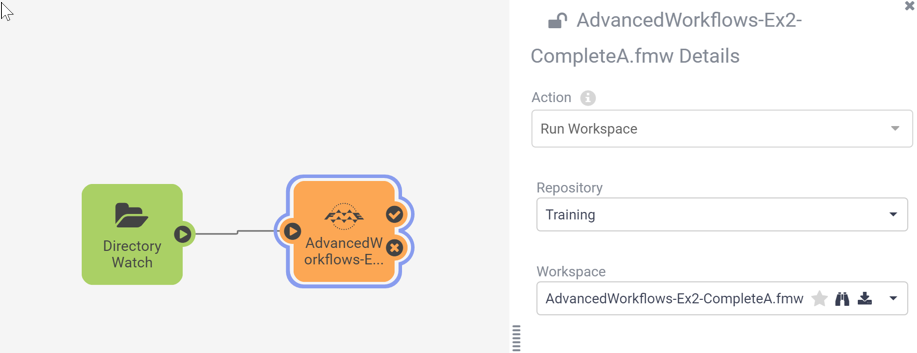
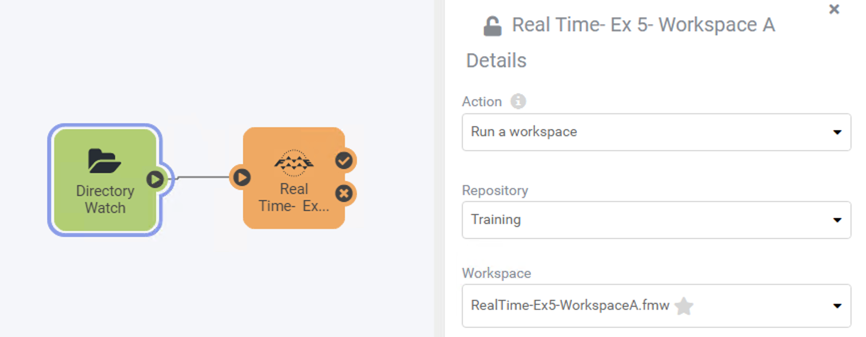
Updated exercises 4 and 5 for chapter 4.

diff --git a/ServerAuthoring4RealTime/Exercise4.md b/ServerAuthoring4RealTime/Exercise4.md
@@ -26,17 +26,18 @@
 
 <tr>
 <td style="border: 1px solid darkorange; font-weight: bold">Demonstrates</td>
-<td style="border: 1px solid darkorange">Email Actions</td>
+<td style="border: 1px solid darkorange">Automations Writer and Email Actions</td>
 </tr>
 
 <tr>
-<td style="border: 1px solid darkorange; font-weight: bold">Start Workspace</td>
-<td style="border: 1px solid darkorange">N/A</td>
+<td style="border: 1px solid darkorange; font-weight: bold">Start Server Project</td>
+<td style="border: 1px solid darkorange">C:\FMEData2020\Projects\ServerAuthoring\RealTime-Ex4-Begin.fsproject
+</td>
 </tr>
 
 <tr>
-<td style="border: 1px solid darkorange; font-weight: bold">End Workspace</td>
-<td style="border: 1px solid darkorange">N/A</td>
+<td style="border: 1px solid darkorange; font-weight: bold">End Server Project</td>
+<td style="border: 1px solid darkorange">C:\FMEData2020\Projects\ServerAuthoring\RealTime-Ex4-Complete.fsproject</td>
 </tr>
 
 </table>
@@ -45,7 +46,7 @@
 
 After configuring an Automation in FME Server to process building footprint updates with both the Directory Watch and Email Triggers, your supervisor is wondering if they can receive an email whenever the corporate database is updated.
 
-Using an external email server, you think that it is possible to configure the existing Automation in FME Server to satisfy this requirement.
+Using an external email server, you think that it is possible to configure the existing Automation in FME Server to satisfy this requirement. You also realize that you can use an Automations Writer in the workspace to include additional information about the updates made to the corporate database in the email that is sent.
 
 ---
 
@@ -70,13 +71,44 @@ This exercise continues where <a href="https://s3.amazonaws.com/gitbook/Server-A
 </table>
 
 ---
+<br>**1) Open Workspace in Workbench**
+<br>If you don't already have the workspace from Exercise 2 open in Workbench, download it from FME Server using the File > Download from FME Server option in Workbench. From the download from FME Server dialog, choose the Training Repository and select RealTime-Ex2-Complete.fmw to open it in Workbench for editing.
 
-Will modify the workspace to add an Automations Writer so we can pass some specific information from inside the workspace to the Email Trigger. The rest of the exercise should follow as normal.
+<br>**2) Create Summary Information for Job**
+<br>Now, you are going to update this workspace to generate a summary of the number of records that were updated from the incoming Shapefile. Add an Aggregator transformer and connect it in parallel to the Shapefile Reader like this:
 
-<br>**1) Add External Action**
-<br>Open the FME Server web interface and navigate to the Automations:Manage page. Click the Incoming Building Footprints and stop the Automation to allow for editing. The final step in the Automation is to add an email service External Action through which a response will be sent.
+![](./Images/Img4.439.Ex4.Aggregator.png)
 
-Select the plus icon in the bottom left and this time drag an External Action (blue) to the canvas. Connect this to the Success (check mark) output port of the Run Workspace node, which will now also act as a Trigger.
+<br>Open the Aggregator parameters dialog and set the Count Attribute to a name: NumberOfUpdates
+
+<br>**3) Add Automations Writer**
+<br>Go to Writers > Add Writer and select the FME Server Automations format. Set the Feature Type Definition to Automatic... and add the writer to the canvas. When prompted, set the Feature Type Name to JobSummary and click OK.
+
+Connect the Automations Writer feature type to the output port of the Aggregator transformer.
+
+<br>**4)Clean up Automations Writer Attributes**
+<br>After connecting the Automations writer, you'll notice that all the attributes from the Shapefile data are included on the writer. We don't need all that information within the Automation. Open the Feature Type Properties on the writer, then go to User Attributes and select Manual under Attribute Definition.
+
+Remove all the attributes except for the one we created earlier, NumberOfUpdates. Set the Type for NumberOfUpdates to int as this is a numeric value.
+
+![](./Images/Img4.440.Ex4.FeatureTypeDefinition.png)
+
+Click OK to apply that change. At this stage, there should be two attributes on the JobSummary Feature Type: NumberOfUpdates and fme_feature_type
+
+![](./Images/Img4.441.Ex4.FeatureTypeFinal.png)
+
+<br>**5)Save and Republish Workspace**
+<br>Save the workspace and Republish it to FME Server.
+
+<br>**6)Update Workspace Action**
+<br>Open the FME Server web interface and navigate to the Automations:Manage page. Click the Incoming Building Footprints and stop the Automation to allow for editing. Click on the Workspace Action in the Automation to open its parameters. Click on the Refresh button in the top right of the Parameters window then click Apply to update the Workspace Action. A new output port should appear in the Automation.
+
+![](./Images/Img4.442.Ex4.NewOutput.png)
+
+<br>**7) Add External Action**
+<br>The final step in the Automation is to add an email service External Action through which a response will be sent.
+
+Select the plus icon in the bottom left and drag an External Action (blue) to the canvas. Connect this to the JobSummary output port of the Run Workspace node, which will now also act as a Trigger.
 
 ![](./Images/Img4.430.Ex4.ConnectEmailActions.png)
 
@@ -122,14 +154,18 @@ There is also the option to load a template for some other Email Servers, if you
 <td style="">Building Footprints Database Updated</td>
 </tr>
 
-<tr>
-<td style="font-weight: bold">Email Body</td>
-<td style="">The Building Footprints database has been updated!</td>
-</tr>
-
 </table>
 
+Next, set the Email Body. Click the drop-down arrow to the right of the value and select Text Editor. This will open a window that will allow you to add content that can also include values coming from elements within the Automation.
 
+Set the Email Body to the following:
+
+The Building Footprints database has been updated!
+{route.JobSummary.NumberOfUpdates} records were updated from a file called {route.JobSummary.fme_feature_type}
+
+**Note:** To add the information coming from the Automations Writer, look at the panel on the left-hand side of the Text Editor and look under Workspace > JobSummary for the list of attributes available to use. Click on each one to add them to the text editor.
+
+![](./Images/Img4.443.Ex4.TextEditor.png)
 
 ---
 
@@ -181,8 +217,8 @@ Depending on your Gmail security settings, you may need to create an app-specifi
 
 ---
 
-<br>**2) Test Automation**
-<br>Test the Automation by either sending an email with a zip file attachment of the Shapefile datasets (.dbf, .prj, .shp, .shx) from C:\FMEData2019\Data\Engineering\BuildingFootprints, or by adding this collection of files to the Directory Watch as in Exercise 1.
+<br>**8) Test Automation**
+<br>Test the Automation by either sending an email with a zip file attachment of the Shapefile datasets (.dbf, .prj, .shp, .shx) from C:\FMEData2020\Data\Engineering\BuildingFootprints, or by adding this collection of files to the Directory Watch as in Exercise 1.
 
 If the workflow was successful, you should receive an email back with a response!
 
@@ -204,7 +240,9 @@ If the workflow was successful, you should receive an email back with a response
 <span style="font-family:serif; font-style:italic; font-size:larger">
 By completing this exercise you have learned how to:
 <br>
-<ul><li>Set up an outgoing Email Action</li>
+<ul>
+<li>Add an Automations Writer to a workspace</li>
+<li>Set up an outgoing Email Action</li>
 <li>Trigger an Email notification through Automations</li></ul>
 </span>
 </td>

diff --git a/ServerAuthoring4RealTime/Exercise5.md b/ServerAuthoring4RealTime/Exercise5.md
@@ -7,7 +7,7 @@
 <tr>
 <td width=25% style="vertical-align:middle;background-color:darkorange;border: 2px solid darkorange">
 <i class="fa fa-cogs fa-lg fa-pull-left fa-fw" style="color:white;padding-right: 12px;vertical-align:text-top"></i>
-<span style="color:white;font-size:x-large;font-weight: bold">Exercise 6.3</span>
+<span style="color:white;font-size:x-large;font-weight: bold">Exercise 4.5</span>
 </td>
 <td style="border: 2px solid darkorange;background-color:darkorange;color:white">
 <span style="color:white;font-size:x-large;font-weight: bold">Authoring Workspace Chains in Automations</span>
@@ -21,7 +21,7 @@
 
 <tr>
 <td style="border: 1px solid darkorange; font-weight: bold">Overall Goal</td>
-<td style="border: 1px solid darkorange">Create an Automation to chain the previous two translations together</td>
+<td style="border: 1px solid darkorange">Create an Automation to chain two translations together</td>
 </tr>
 
 <tr>
@@ -30,32 +30,42 @@
 </tr>
 
 <tr>
-<td style="border: 1px solid darkorange; font-weight: bold">Start Workspace</td>
-<td style="border: 1px solid darkorange">None</td>
+<td style="border: 1px solid darkorange; font-weight: bold">Start Project</td>
+<td style="border: 1px solid darkorange">C:\FMEData2020\Projects\ServerAuthoring\RealTime-Ex5-Begin.fsproject
+</td>
 </tr>
 
 <tr>
-<td style="border: 1px solid darkorange; font-weight: bold">End Workspace</td>
-<td style="border: 1px solid darkorange">None</td>
+<td style="border: 1px solid darkorange; font-weight: bold">End Project</td>
+<td style="border: 1px solid darkorange">C:\FMEData2020\Projects\ServerAuthoring\RealTime-Ex5-Complete.fsproject</td>
 </tr>
 
 </table>
 
 ---
 
-You have just finished creating a workspace that uses the FMEServerJobSubmitter transformer to chain two workspaces together so that they run consecutively. Now the team has requested you to update this workflow so that they can easily re-run it automatically whenever they update the Election Voting GML file.
+You're a technical analyst in the GIS department of your local city. You have plenty of experience using FME Desktop, and your department has recently begun using FME Server.
 
-You know you can set up an automation to automatically run the parent workspace you created before, but then you'd have both the automation and that parent workspace to update if anything in this workflow changes. You realize that you can handle the job chaining within an Automation as well.
+A municipal election is about to happen, and Elections Interopolis have provided a dataset of new voting divisions in GML format. You've already created a workspace to translate these voting divisions to a SpatiaLite database format for use within the city and that data is being written to a resources folder on FME Server so everyone can use it.
+
+Coincidentally, the planning department heard of this update. They have a workspace that assigns voting division IDs to each of the records in the city's address database for use in election planning and would like to have their workspace run automatically whenever there are any updates to the voting divisions.
+
+You realize that you can chain these two translations together to be carried out consecutively and automatically whenever the Election Voting GML file is updated using an Automation.
 
 ---
 
-<br>**1) Create Automation**
+<br>**1) Import Project**
+<br>In the FME Server web interface, go to Projects > Manage Projects and import the Start Project for this Exercise from C:\FMEData2020\Projects\ServerAuthoring\RealTime-Ex5-Begin.fsproject
+
+This will contain the two workspaces we want to run in sequence as well as input and output Resource folders for this workflow. Take a moment to familiarize yourself with the contents of this project and look at the two included workspaces using the View Workspace page.
+
+<br>**2) Create Automation**
 <br>In the FME Server interface, navigate to the Automations > Build page to start building a new Automation.
 
 Save the Automation first and give it a name such as JobChaining.
 
-<br>**2) Add Trigger**
-<br>You want these jobs to start running whenever new data is added, so set up a Trigger to handle that.
+<br>**3) Add Trigger**
+<br>You want these jobs to start running whenever new data is added to the Election/Input folder, so set up a Trigger to handle that.
 
 Click on the Trigger that is already placed in your Automation to configure it. Set the Trigger as follows:
 
@@ -116,7 +126,7 @@ We're setting the Poll Interval here to 30 seconds just to make testing faster f
 ![](./Images/Img6.227.Ex3.DirectoryWatch.png)
 
 
-<br>**3) Add Workspace Action**
+<br>**4) Add Workspace Action**
 <br>Now we want to add an Action to run the first of the two workspaces we want to run in our job chain.
 
 Click on the + button and drag an Action onto the canvas. Connect it to the Directory Watch Trigger and configure it as follows:
@@ -135,7 +145,7 @@ Click on the + button and drag an Action onto the canvas. Connect it to the Dire
 
 <tr>
 <td style="font-weight: bold">Workspace</td>
-<td style="">AdvancedWorkflows-Ex2-CompleteA.fmw</td>
+<td style="">RealTime-Ex5-WorkspaceA.fmw</td>
 </tr>
 
 </table>
@@ -143,25 +153,25 @@ Click on the + button and drag an Action onto the canvas. Connect it to the Dire
 ![](./Images/Img6.228.Ex3.FirstWorkspace.png)
 
 
-<br>**4) Add Second Workspace Action**
-<br>Notice that unlike the FMEServerJobSubmitter, the Workspace Action does not have an option for wait for job to complete. This is because a Workspace Action will always wait until the job has completed before moving onto the next Action within the Automation.
+<br>**5) Add Second Workspace Action**
+<br>Note that a Workspace Action will always wait until the job has completed before moving onto the next Action within the Automation.
 
-To set up the second workspace to run, simply add a second Action and connect it to the checkmark (or Action Succeeded) port on the Workspace Action we just added. Configure this one to run the AdvancedWorkflows-Ex2-CompleteB.fmw from inside the Training repository.
+To set up the second workspace to run, simply add a second Action and connect it to the checkmark (or Action Succeeded) port on the Workspace Action we just added. Configure this one to run the RealTime-Ex5-WorkspaceB.fmw from inside the Training repository.
 
 Your final Automation should look like this:
 
 ![](./Images/Img6.229.Ex3.FinalAutomation.png)
 
-<br>**5) Save and Start Automation**
+<br>**6) Save and Start Automation**
 <br>Save your Automation. Then click the Start Automation button to start the Automation.
 
-<br>**6) Test the Automation**
+<br>**7) Test the Automation**
 <br> Now you can the Automation by uploading a modified version of the ElectionVoting.gml file to Resources.
 
 Open the Resources page and navigate to Data > Election > Input. Click on Upload > Files and select the following two files to upload:
 
-- C:\FMEData2019\Resources\ServerAuthoring\JobChaining\ElectionVoting.gml
-- C:\FMEData2019\Resources\ServerAuthoring\JobChaining\ElectionVoting.xsd
+- C:\FMEData2020\Resources\ServerAuthoring\JobChaining\ElectionVoting.gml
+- C:\FMEData2020\Resources\ServerAuthoring\JobChaining\ElectionVoting.xsd
 
 Wait a minute or so and then View Triggered Jobs for your Automation, you should see that both chained workspaces successfully ran in order.
 

diff --git a/ServerAuthoring4RealTime/Exercise3.md b/ServerAuthoring4RealTime/Exercise3.md
@@ -45,7 +45,7 @@
 </tr>
 
 <tr>
-<td style="border: 1px solid darkorange; font-weight: bold">Start Server Project</td>
+<td style="border: 1px solid darkorange; font-weight: bold">End Server Project</td>
 <td style="border: 1px solid darkorange">C:\FMEData2020\Projects\ServerAuthoring\RealTime-Ex3-Complete.fsproject</td>
 </tr>
 
@@ -113,8 +113,8 @@ Clicking Apply will create an email address *fmeshapeprocessing@&lt;hostname&gt;
 <tr><td>localhost</td><td>fmeshapeprocessing@IP Address</td></tr>
 </table>
 
-To quickly find your IP Address, navigate to Google in your browser and search "My IP". The search results will return your public IP address as the first result. 
- 
+To quickly find your IP Address, navigate to Google in your browser and search "My IP". The search results will return your public IP address as the first result.
+
 ---
 
 ***IMAP Protocol***
@@ -226,7 +226,7 @@ User keys can only be used in the Automation they are defined in, and can be set
 <br>**4) Test Automation**
 <br>Now let's test the Automation.
 
-This time, because we connected the Email Trigger directly to the Workspace Action, let's zip up the four .shp, and associated file types, to add as an attachment. 
+This time, because we connected the Email Trigger directly to the Workspace Action, let's zip up the four .shp, and associated file types, to add as an attachment.
 
 Send an email *with an attachment* to the address created in the Email Trigger. When the email is received by FME Server (SMTP), or FME Server fetches it (IMAP), the Automation will send a message to the Workspace Action. (Remember that an IMAP publication only checks for an email at the specified poll interval, so the result might not be immediate!)
 
